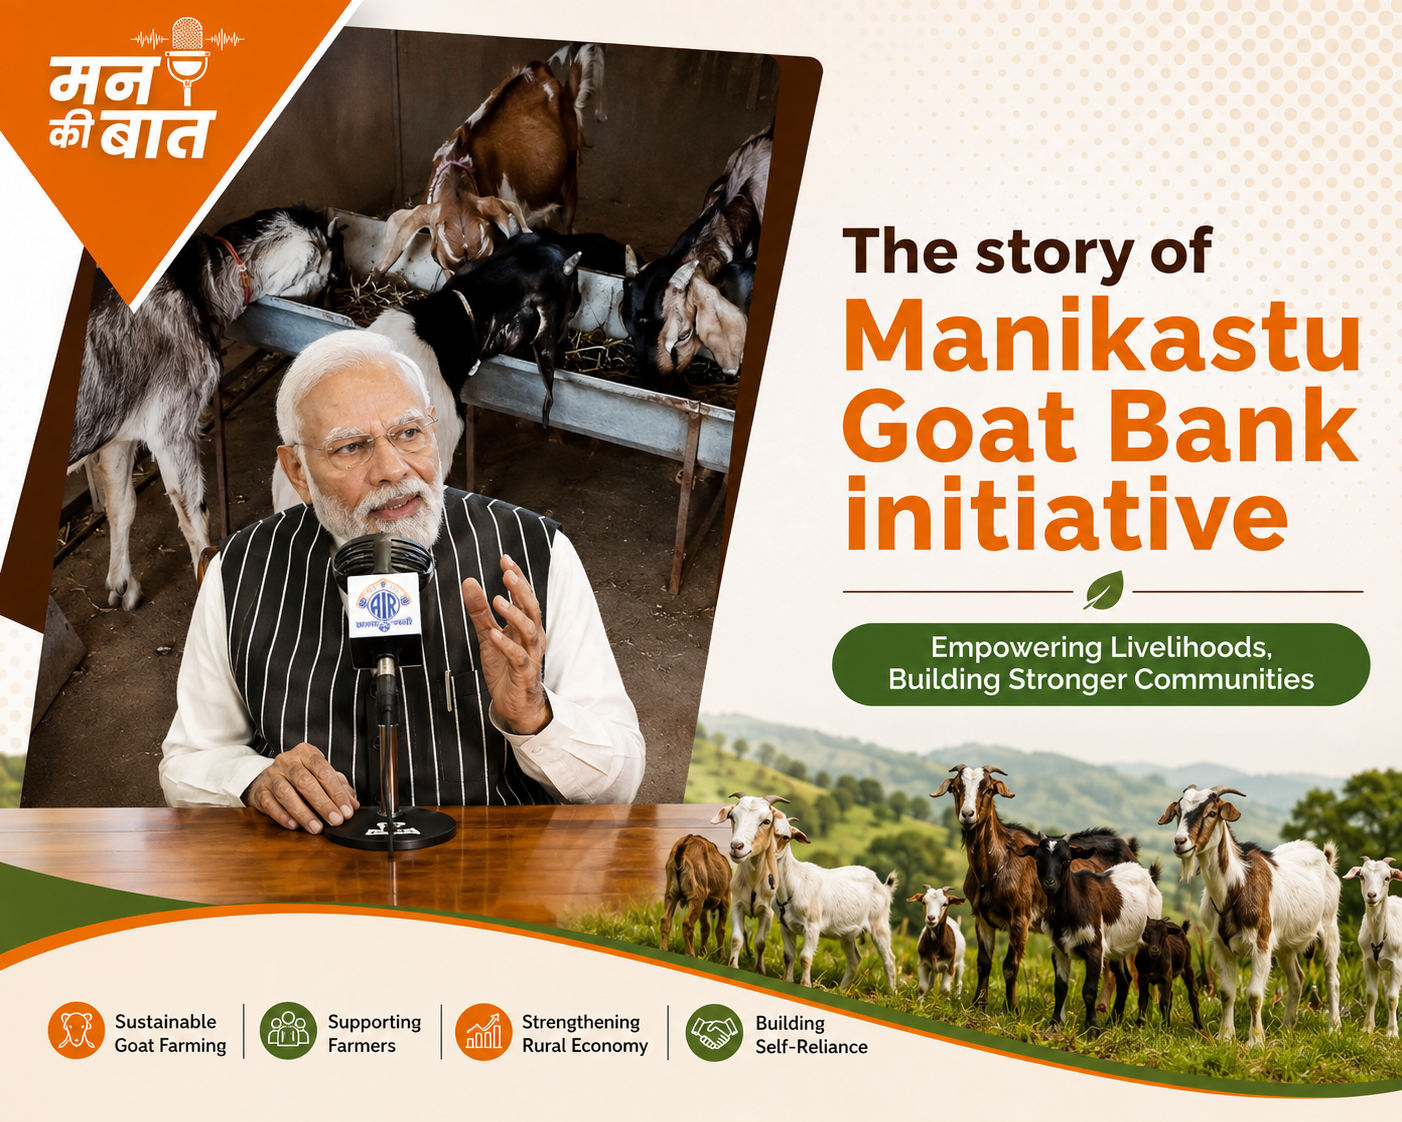
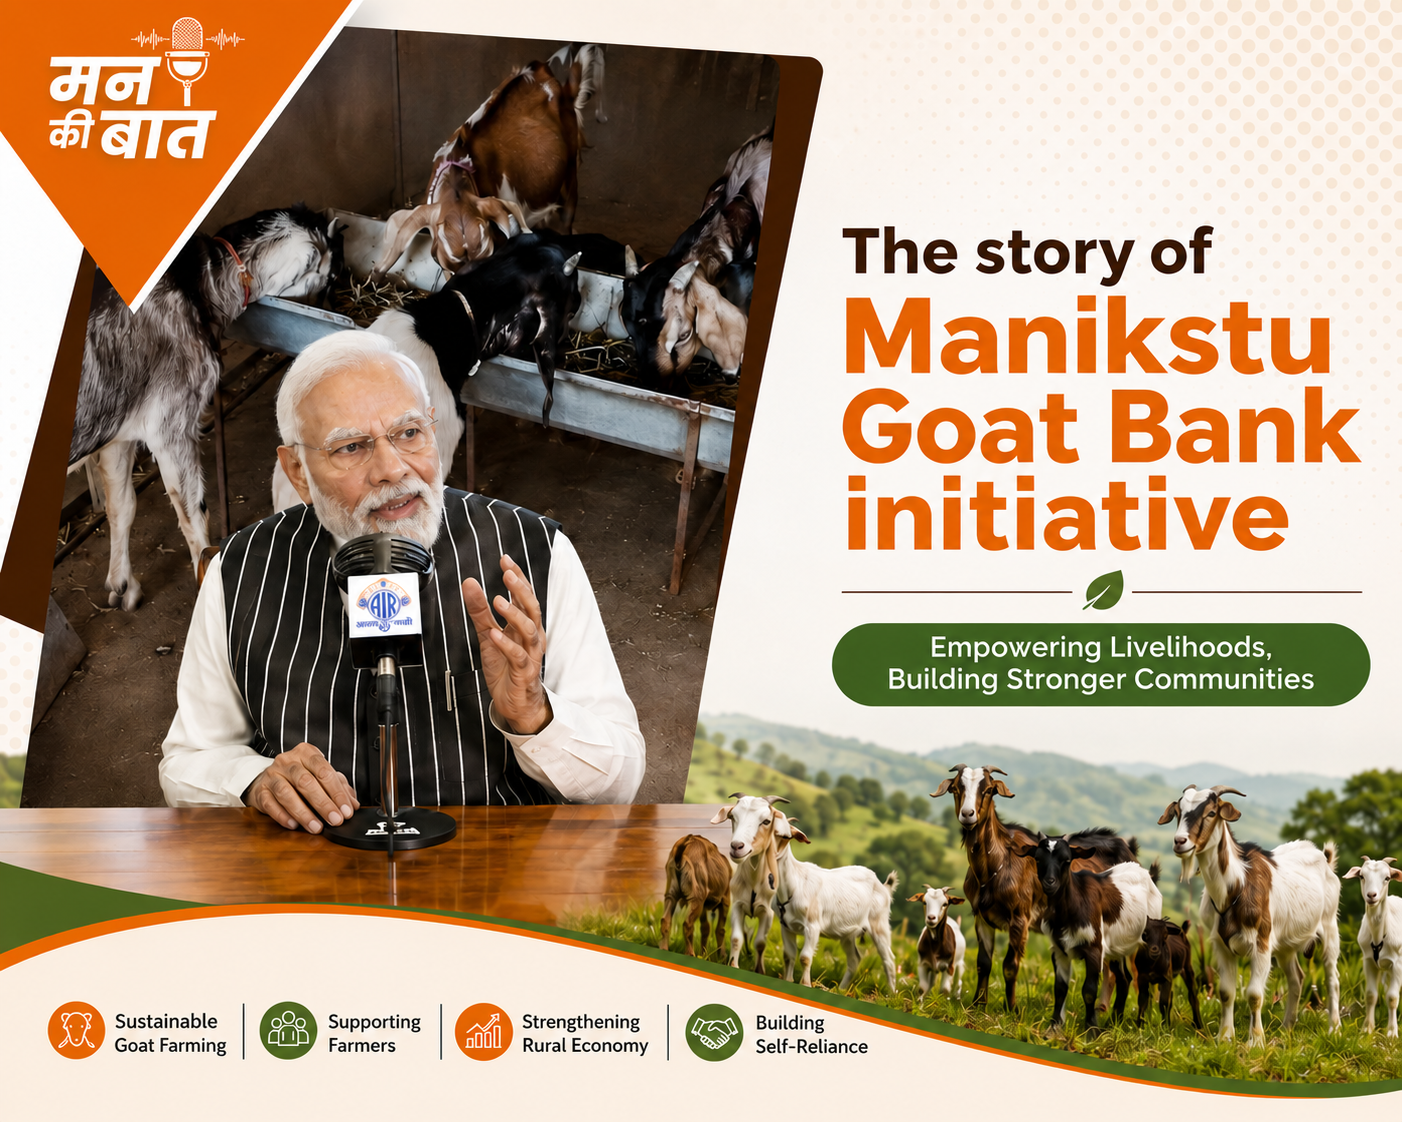
Fix checkout cart bug, add order popup, and update hero image
- Fix checkout page reading cart by numeric product id instead of slug,
  which always emptied the cart on checkout; use cart.ts helpers instead
- Apply the same slug-based fix to the (currently unused) CartDrawer
- Show real product images in checkout order summary instead of a
  generic icon
- Restrict phone and PIN code fields to digits only (10 and 6 digits)
- Show order confirmation as a popup modal instead of inline page swap
- Replace home page hero image

diff --git a/frontend/src/app/[locale]/products/checkout/PageClient.tsx b/frontend/src/app/[locale]/products/checkout/PageClient.tsx
@@ -2,12 +2,19 @@
 
 import { useState, useEffect, type FormEvent } from "react";
 import Link from "next/link";
+import Image from "next/image";
 import Header from "@/components/layout/Header";
 import Footer from "@/components/layout/Footer";
 import { ArrowLeft, Package, CheckCircle2, ShoppingBag } from "lucide-react";
-import { getProducts } from "@/lib/api";
-import { FALLBACK_PRODUCTS, type Product } from "../data";
-import { readCart, subscribeCart, clearCart, type CartMap } from "../cart";
+import {
+  readCart,
+  subscribeCart,
+  clearCart,
+  cartLines as cartLinesOf,
+  cartCount as cartCountOf,
+  cartTotal as cartTotalOf,
+  type CartMap,
+} from "../cart";
 
 type Address = {
   fullName: string;
@@ -34,22 +41,9 @@ const emptyAddress: Address = {
 };
 
 export default function CheckoutPage() {
-  const [products, setProducts] = useState<Product[]>(FALLBACK_PRODUCTS);
   const [cart, setCart] = useState<CartMap>({});
   const [address, setAddress] = useState<Address>(emptyAddress);
   const [placed, setPlaced] = useState(false);
-
-  useEffect(() => {
-    getProducts(1, 50)
-      .then((res) => {
-        if (Array.isArray(res.data) && res.data.length > 0) {
-          setProducts(res.data);
-        }
-      })
-      .catch(() => {
-        /* keep FALLBACK_PRODUCTS when the API isn't reachable */
-      });
-  }, []);
 
   useEffect(() => {
     setCart(readCart());
@@ -57,23 +51,23 @@ export default function CheckoutPage() {
     return unsub;
   }, []);
 
-  const cartLines = Object.entries(cart)
-    .map(([idStr, qty]) => {
-      const p = products.find((prod) => prod.id === Number(idStr));
-      if (!p) return null;
-      return { product: p, qty };
-    })
-    .filter((l): l is { product: Product; qty: number } => l !== null);
-
-  const cartTotal = cartLines.reduce(
-    (sum, l) => sum + Number(l.product.price) * l.qty,
-    0
-  );
-  const cartCount = cartLines.reduce((sum, l) => sum + l.qty, 0);
+  const cartLines = cartLinesOf(cart);
+  const cartTotal = cartTotalOf(cart);
+  const cartCount = cartCountOf(cart);
 
   const update = (key: keyof Address) => (
     e: React.ChangeEvent<HTMLInputElement | HTMLTextAreaElement>
   ) => setAddress((a) => ({ ...a, [key]: e.target.value }));
+
+  const updatePhone = (e: React.ChangeEvent<HTMLInputElement>) => {
+    const digits = e.target.value.replace(/\D/g, "").slice(0, 10);
+    setAddress((a) => ({ ...a, phone: digits }));
+  };
+
+  const updatePincode = (e: React.ChangeEvent<HTMLInputElement>) => {
+    const digits = e.target.value.replace(/\D/g, "").slice(0, 6);
+    setAddress((a) => ({ ...a, pincode: digits }));
+  };
 
   const handleSubmit = (e: FormEvent) => {
     e.preventDefault();
@@ -100,25 +94,29 @@ export default function CheckoutPage() {
             Enter your delivery address to place the order.
           </p>
 
-          {placed ? (
-            <div className="mt-10 rounded-2xl border border-light-grey bg-white p-8 text-center shadow-sm md:p-12">
-              <CheckCircle2 className="mx-auto h-14 w-14 text-manikstu-green" />
-              <h2 className="mt-4 font-heading text-2xl font-bold text-charcoal">
-                Order placed successfully!
-              </h2>
-              <p className="mx-auto mt-2 max-w-md text-grey">
-                Thank you, {address.fullName || "friend"}. Our team will contact
-                you on {address.phone || "your phone"} to confirm delivery to{" "}
-                {address.city || "your address"}.
-              </p>
-              <Link
-                href="/products"
-                className="mt-6 inline-flex items-center gap-2 rounded-full bg-manikstu-green px-6 py-3 text-sm font-semibold text-white transition-colors hover:bg-manikstu-leaf"
-              >
-                Continue shopping
-              </Link>
+          {placed && (
+            <div className="fixed inset-0 z-50 flex items-center justify-center bg-charcoal/50 p-4 backdrop-blur-sm">
+              <div className="w-full max-w-md rounded-2xl bg-white p-8 text-center shadow-xl">
+                <CheckCircle2 className="mx-auto h-14 w-14 text-manikstu-green" />
+                <h2 className="mt-4 font-heading text-2xl font-bold text-charcoal">
+                  Order placed successfully!
+                </h2>
+                <p className="mx-auto mt-2 max-w-md text-grey">
+                  Thank you, {address.fullName || "friend"}. Our team will
+                  contact you on {address.phone || "your phone"} to confirm
+                  delivery to {address.city || "your address"}.
+                </p>
+                <Link
+                  href="/products"
+                  className="mt-6 inline-flex items-center gap-2 rounded-full bg-manikstu-green px-6 py-3 text-sm font-semibold text-white transition-colors hover:bg-manikstu-leaf"
+                >
+                  Continue shopping
+                </Link>
+              </div>
             </div>
-          ) : cartCount === 0 ? (
+          )}
+
+          {cartCount === 0 && !placed ? (
             <div className="mt-10 rounded-2xl border border-light-grey bg-white p-8 text-center shadow-sm md:p-12">
               <ShoppingBag className="mx-auto h-12 w-12 text-grey/50" />
               <h2 className="mt-4 font-heading text-xl font-bold text-charcoal">
@@ -160,8 +158,11 @@ export default function CheckoutPage() {
                     <input
                       type="tel"
                       required
+                      inputMode="numeric"
+                      pattern="[0-9]{10}"
+                      maxLength={10}
                       value={address.phone}
-                      onChange={update("phone")}
+                      onChange={updatePhone}
                       className={inputCls}
                       placeholder="10-digit mobile number"
                     />
@@ -219,8 +220,10 @@ export default function CheckoutPage() {
                       type="text"
                       required
                       inputMode="numeric"
+                      pattern="[0-9]{6}"
+                      maxLength={6}
                       value={address.pincode}
-                      onChange={update("pincode")}
+                      onChange={updatePincode}
                       className={inputCls}
                       placeholder="6-digit PIN code"
                     />
@@ -250,22 +253,32 @@ export default function CheckoutPage() {
                   Order Summary
                 </h2>
                 <ul className="mt-5 space-y-4">
-                  {cartLines.map(({ product, qty }) => (
-                    <li key={product.id} className="flex items-center gap-3">
-                      <span className="flex h-12 w-12 shrink-0 items-center justify-center rounded-lg bg-manikstu-cream">
-                        <Package className="h-5 w-5 text-manikstu-green" />
+                  {cartLines.map((line) => (
+                    <li key={line.slug} className="flex items-center gap-3">
+                      <span className="relative flex h-12 w-12 shrink-0 items-center justify-center overflow-hidden rounded-lg bg-manikstu-cream">
+                        {line.image ? (
+                          <Image
+                            src={line.image}
+                            alt={line.name}
+                            fill
+                            sizes="48px"
+                            className="object-contain p-1"
+                          />
+                        ) : (
+                          <Package className="h-5 w-5 text-manikstu-green" />
+                        )}
                       </span>
                       <div className="min-w-0 flex-1">
                         <p className="truncate text-sm font-semibold text-charcoal">
-                          {product.name}
+                          {line.name}
                         </p>
                         <p className="text-xs text-grey">
-                          Qty {qty}
-                          {product.size ? ` · ${product.size}` : ""}
+                          Qty {line.qty}
+                          {line.size ? ` · ${line.size}` : ""}
                         </p>
                       </div>
                       <p className="text-sm font-semibold text-charcoal">
-                        ₹{(Number(product.price) * qty).toLocaleString("en-IN")}
+                        ₹{(line.price * line.qty).toLocaleString("en-IN")}
                       </p>
                     </li>
                   ))}

diff --git a/frontend/src/components/cart/CartDrawer.tsx b/frontend/src/components/cart/CartDrawer.tsx
@@ -21,28 +21,16 @@ import {
   clearCart,
   subscribeCartDrawer,
   closeCartDrawer,
+  cartLines as cartLinesOf,
+  cartCount as cartCountOf,
+  cartTotal as cartTotalOf,
   type CartMap,
 } from "@/app/[locale]/products/cart";
-import { FALLBACK_PRODUCTS } from "@/app/[locale]/products/data";
-import { getProducts } from "@/lib/api";
-import type { Product } from "@/types";
 
 export default function CartDrawer() {
   const [isOpen, setIsOpen] = useState(false);
   const [cart, setCart] = useState<CartMap>({});
-  const [products, setProducts] = useState<Product[]>(FALLBACK_PRODUCTS);
   const router = useRouter();
-
-  // Load products from API / fallback
-  useEffect(() => {
-    getProducts(1, 50)
-      .then((res) => {
-        if (Array.isArray(res.data) && res.data.length > 0) {
-          setProducts(res.data);
-        }
-      })
-      .catch(() => {});
-  }, []);
 
   // Hydrate cart and subscribe to updates
   useEffect(() => {
@@ -71,26 +59,9 @@ export default function CartDrawer() {
     }
   }, [isOpen]);
 
-  const cartLines = useMemo(() => {
-    return Object.entries(cart)
-      .map(([idStr, qty]) => {
-        const id = Number(idStr);
-        const p = products.find((prod) => prod.id === id);
-        if (!p) return null;
-        return { product: p, qty };
-      })
-      .filter((l): l is { product: Product; qty: number } => l !== null);
-  }, [cart, products]);
-
-  const cartTotal = useMemo(
-    () => cartLines.reduce((sum, l) => sum + Number(l.product.price || 0) * l.qty, 0),
-    [cartLines]
-  );
-
-  const cartCount = useMemo(
-    () => cartLines.reduce((sum, l) => sum + l.qty, 0),
-    [cartLines]
-  );
+  const cartLines = useMemo(() => cartLinesOf(cart), [cart]);
+  const cartTotal = useMemo(() => cartTotalOf(cart), [cart]);
+  const cartCount = useMemo(() => cartCountOf(cart), [cart]);
 
   const handleCheckout = () => {
     closeCartDrawer();
@@ -166,16 +137,16 @@ export default function CartDrawer() {
               </div>
             ) : (
               <ul className="divide-y divide-light-grey/60 dark:divide-gray-800">
-                {cartLines.map(({ product, qty }) => {
-                  const linePrice = Number(product.price || 0) * qty;
+                {cartLines.map((line) => {
+                  const linePrice = line.price * line.qty;
                   return (
-                    <li key={product.id} className="py-4 flex gap-3.5 items-start">
+                    <li key={line.slug} className="py-4 flex gap-3.5 items-start">
                       {/* Product Thumbnail */}
                       <div className="relative h-20 w-20 shrink-0 overflow-hidden rounded-xl border border-light-grey/80 bg-white dark:border-gray-700 dark:bg-gray-800">
-                        {product.image ? (
+                        {line.image ? (
                           <Image
-                            src={product.image}
-                            alt={product.name}
+                            src={line.image}
+                            alt={line.name}
                             fill
                             sizes="80px"
                             className="object-contain p-1.5"
@@ -190,19 +161,19 @@ export default function CartDrawer() {
                       {/* Details */}
                       <div className="min-w-0 flex-1">
                         <Link
-                          href={`/products/${product.slug}`}
+                          href={`/products/${line.slug}`}
                           onClick={closeCartDrawer}
                           className="font-heading text-sm font-bold text-charcoal dark:text-white hover:text-manikstu-green transition-colors line-clamp-1"
                         >
-                          {product.name}
+                          {line.name}
                         </Link>
-                        {product.size && (
+                        {line.size && (
                           <p className="text-xs text-grey dark:text-gray-400 mt-0.5">
-                            {product.size}
+                            {line.size}
                           </p>
                         )}
                         <p className="text-xs font-semibold text-manikstu-green mt-1">
-                          ₹{Number(product.price || 0).toLocaleString("en-IN")}
+                          ₹{line.price.toLocaleString("en-IN")}
                         </p>
 
                         {/* Quantity controls */}
@@ -210,18 +181,18 @@ export default function CartDrawer() {
                           <div className="inline-flex items-center gap-1 rounded-full border border-light-grey/80 bg-white text-xs font-semibold text-charcoal dark:border-gray-700 dark:bg-gray-800 dark:text-gray-200 shadow-2xs">
                             <button
                               type="button"
-                              onClick={() => setQty(product.id, qty - 1)}
+                              onClick={() => setQty(line.slug, line.qty - 1)}
                               aria-label="Decrease quantity"
                               className="flex h-6 w-6 items-center justify-center rounded-full hover:bg-manikstu-green/10 hover:text-manikstu-green transition-colors"
                             >
                               <Minus className="h-3 w-3" />
                             </button>
                             <span className="min-w-[1.25rem] text-center tabular-nums font-bold">
-                              {qty}
+                              {line.qty}
                             </span>
                             <button
                               type="button"
-                              onClick={() => setQty(product.id, qty + 1)}
+                              onClick={() => setQty(line.slug, line.qty + 1)}
                               aria-label="Increase quantity"
                               className="flex h-6 w-6 items-center justify-center rounded-full hover:bg-manikstu-green/10 hover:text-manikstu-green transition-colors"
                             >
@@ -235,8 +206,8 @@ export default function CartDrawer() {
                             </span>
                             <button
                               type="button"
-                              onClick={() => removeFromCart(product.id)}
-                              aria-label={`Remove ${product.name}`}
+                              onClick={() => removeFromCart(line.slug)}
+                              aria-label={`Remove ${line.name}`}
                               className="text-grey hover:text-manikstu-red dark:text-gray-400 transition-colors"
                             >
                               <Trash2 className="h-3.5 w-3.5" />
